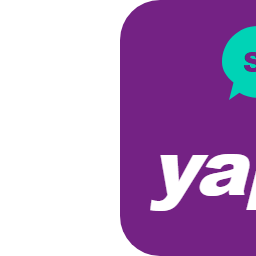
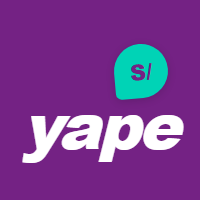
fix: icono vectorial Yape perfecto sin distorsion

diff --git a/src/App.tsx b/src/App.tsx
@@ -76,6 +76,17 @@ const TikTokIcon = ({ className = "w-4 h-4" }: { className?: string }) => (
   </svg>
 );
 
+const YapeIcon = ({ className = "w-10 h-10" }: { className?: string }) => (
+  <svg className={`rounded-xl shadow-md shrink-0 border border-white/20 ${className}`} viewBox="0 0 200 200" fill="none" xmlns="http://www.w3.org/2000/svg">
+    <rect width="200" height="200" rx="40" fill="#742284"/>
+    <g transform="translate(95, 25)">
+      <path d="M35 0C54.33 0 70 15.67 70 35C70 54.33 54.33 70 35 70C27.5 70 20.5 67.6 14.8 63.5L5 72L9 53.8C2.8 48.2 0 41.5 0 35C0 15.67 15.67 0 35 0Z" fill="#00D3B6"/>
+      <text x="35" y="44" fontFamily="Arial, sans-serif" fontWeight="900" fontSize="26" fill="#742284" textAnchor="middle">S/</text>
+    </g>
+    <text x="100" y="155" fontFamily="'Arial Black', Arial, sans-serif" fontWeight="900" fontStyle="italic" fontSize="62" fill="#FFFFFF" textAnchor="middle" letterSpacing="-2">yape</text>
+  </svg>
+);
+
 // ==========================================
 
 interface CartItem {
@@ -1391,7 +1402,7 @@ export default function App() {
                   <div className="bg-gradient-to-br from-[#742284] to-[#4a1254] text-white p-4 rounded-2xl shadow-md border-2 border-[#00D3B6]/60 space-y-3">
                     <div className="flex items-center justify-between">
                       <div className="flex items-center gap-2.5">
-                        <img src="/yape.png" alt="Yape" className="w-9 h-9 rounded-xl shadow-md border border-white/20 object-cover" />
+                        <YapeIcon className="w-10 h-10" />
                         <div>
                           <p className="font-anton text-lg leading-tight tracking-wide text-white">YAPE</p>
                           <p className="text-[11px] text-white/80 font-medium">Transferencia directa</p>
